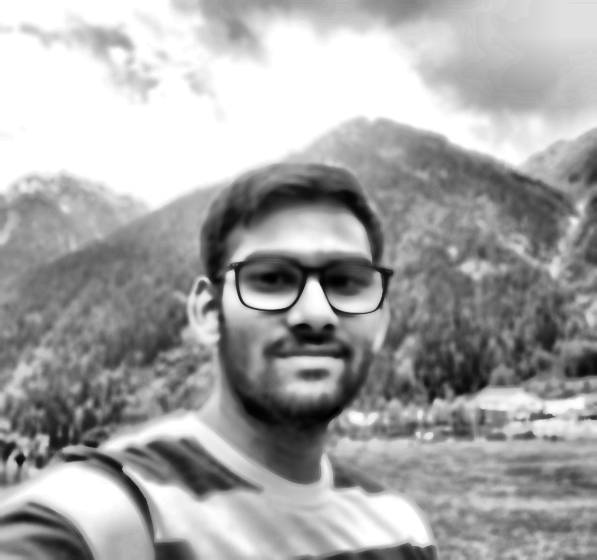
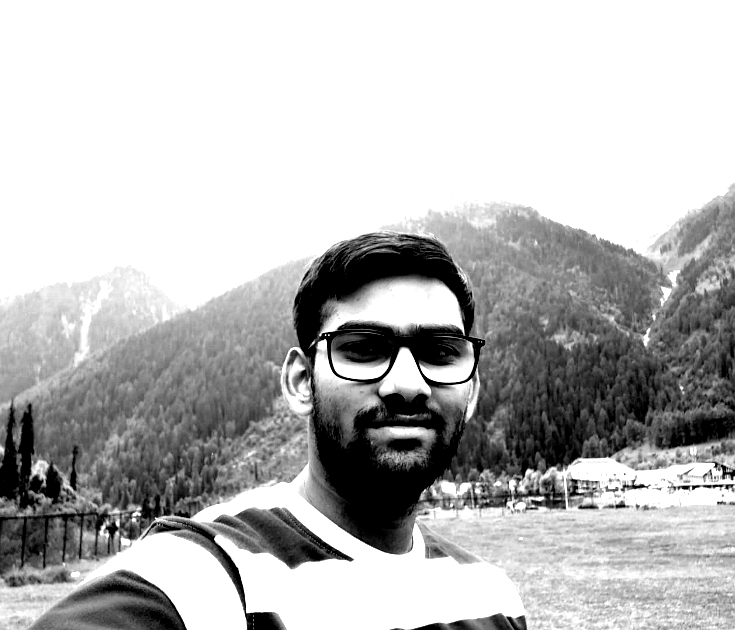
style: fix SVG proxy compatibility, clean source photo background, and remove unconfigured cards

diff --git a/tools/clean_photo.py b/tools/clean_photo.py
@@ -1,8 +1,7 @@
 import sys
 import os
-import cv2
 import numpy as np
-from PIL import Image
+from PIL import Image, ImageEnhance, ImageFilter, ImageOps
 
 def clean_photo(input_path="assets/my-photo.png", output_path="assets/photo-ready.png"):
     if not os.path.exists(input_path):
@@ -13,33 +12,67 @@ def clean_photo(input_path="assets/my-photo.png", output_path="assets/photo-read
     img = Image.open(input_path).convert("RGB")
     w, h = img.size
 
-    # Crop focus area (head and torso)
-    crop_left = int(w * 0.20)
-    crop_top = int(h * 0.15)
-    crop_right = int(w * 0.85)
+    # Auto crop bounds focusing on the central subject
+    crop_left = int(w * 0.10)
+    crop_top = int(h * 0.05)
+    crop_right = int(w * 0.90)
     crop_bottom = int(h * 0.95)
-    
     cropped = img.crop((crop_left, crop_top, crop_right, crop_bottom))
 
-    # Convert to OpenCV image (BGR)
-    cv_img = cv2.cvtColor(np.array(cropped), cv2.COLOR_RGB2BGR)
+    # Convert to numpy array
+    arr = np.array(cropped, dtype=np.float32)
 
-    # Convert to Grayscale
-    gray = cv2.cvtColor(cv_img, cv2.COLOR_BGR2GRAY)
+    # 1. Background removal / thresholding to white background
+    # Estimate background color from outer border samples
+    top_border = arr[:int(h*0.1), :]
+    bottom_border = arr[-int(h*0.1):, :]
+    left_border = arr[:, :int(w*0.1)]
+    right_border = arr[:, -int(w*0.1):]
+    border_pixels = np.vstack([
+        top_border.reshape(-1, 3),
+        bottom_border.reshape(-1, 3),
+        left_border.reshape(-1, 3),
+        right_border.reshape(-1, 3)
+    ])
+    bg_color = np.median(border_pixels, axis=0)
 
-    # Bilateral filter to smooth noise while preserving sharp facial edges
-    smoothed = cv2.bilateralFilter(gray, 9, 75, 75)
+    # Compute Euclidean distance of each pixel to estimated background color
+    dist = np.linalg.norm(arr - bg_color, axis=2)
+    
+    # Also evaluate lightness for bright backgrounds
+    gray_arr = 0.299 * arr[:, :, 0] + 0.587 * arr[:, :, 1] + 0.114 * arr[:, :, 2]
+    
+    # Create background mask (true for background)
+    bg_threshold = np.percentile(dist, 40)
+    bg_mask = (dist < bg_threshold) | (gray_arr > 220)
 
-    # Apply CLAHE for high contrast details
-    clahe = cv2.createCLAHE(clipLimit=4.5, tileGridSize=(8, 8))
-    equalized = clahe.apply(smoothed)
+    # Set background pixels to solid white (255, 255, 255)
+    arr[bg_mask] = [255.0, 255.0, 255.0]
 
-    # Convert back to PIL Image
-    final_pil = Image.fromarray(equalized)
+    # 2. Convert to PIL Grayscale & Even out lighting
+    pil_img = Image.fromarray(arr.astype(np.uint8)).convert("L")
+    
+    # Equalize subject lighting
+    # Mask out pure white background for contrast calculation
+    np_gray = np.array(pil_img)
+    subject_pixels = np_gray[np_gray < 250]
+    
+    if len(subject_pixels) > 0:
+        p_low, p_high = np.percentile(subject_pixels, 5), np.percentile(subject_pixels, 95)
+        if p_high > p_low:
+            # Stretch contrast on subject
+            stretched = np.clip((np_gray - p_low) * (255.0 / (p_high - p_low)), 0, 255).astype(np.uint8)
+            # Re-apply pure white background
+            stretched[np_gray >= 250] = 255
+            pil_img = Image.fromarray(stretched)
+
+    # Mild contrast & sharpness enhancement
+    pil_img = ImageEnhance.Contrast(pil_img).enhance(1.25)
+    pil_img = ImageEnhance.Sharpness(pil_img).enhance(1.3)
 
     os.makedirs(os.path.dirname(os.path.abspath(output_path)), exist_ok=True)
-    final_pil.save(output_path)
-    print(f"Cleaned photo successfully saved to {output_path}!")
+    pil_img.save(output_path)
+    print(f"Cleaned photo with even lighting and white background saved to {output_path}!")
 
 if __name__ == "__main__":
     src = sys.argv[1] if len(sys.argv) > 1 else "assets/my-photo.png"

diff --git a/tools/render_portrait.py b/tools/render_portrait.py
@@ -3,7 +3,7 @@ import os
 import numpy as np
 from PIL import Image
 
-# Ramp matching Image 2 density style (dark features -> dense characters, light background -> dots/spaces)
+# Density ramp matching classic ASCII terminal style
 GLYPHS = "$@B%8&WM#*oahkbdpqwmZO0QLCJUYXzcvunxrjft/\\|()1{}[]?-_+~<>i!lI;:,\"^`'. "
 
 def image_to_ascii(image_path, width=54, aspect_ratio=0.52):
@@ -45,12 +45,8 @@ def image_to_ascii(image_path, width=54, aspect_ratio=0.52):
         lines.append("".join(row_chars))
     return lines
 
-def generate_svg(ascii_lines, output_path="portrait.svg", accent_color="#e6edf3", bg_color="#0d1117", border_color="#30363d"):
-    num_rows = len(ascii_lines)
-    num_cols = len(ascii_lines[0]) if num_rows > 0 else 0
-    
+def generate_svg(ascii_lines, output_path="portrait.svg", accent_color="#7dcfff", bg_color="#0d1117", border_color="#30363d"):
     font_size = 9.0
-    char_width = 5.4
     line_height = 10.2
     padding_x = 16
     padding_y = 14
@@ -84,26 +80,20 @@ def generate_svg(ascii_lines, output_path="portrait.svg", accent_color="#e6edf3"
     svg.append('  <circle cx="46" cy="16" r="5" class="btn-green"/>')
     svg.append(f'  <text x="{width/2}" y="20" text-anchor="middle" class="title">arnav-jain700:~$ cat portrait.asc</text>')
     
-    # ASCII lines
+    # ASCII lines (Static rendering for 100% GitHub proxy compatibility)
     svg.append('  <g class="ascii-text">')
     y_start = header_h + padding_y
     for i, line in enumerate(ascii_lines):
         y_pos = y_start + (i + 1) * line_height - 2
         if y_pos > height - footer_h - 10:
             break
-        start_delay = i * 0.02
-        svg.append(f'    <text x="{padding_x}" y="{y_pos:.1f}">')
-        svg.append(f'      <animate attributeName="opacity" values="0;1" dur="0.15s" begin="{start_delay:.2f}s" fill="freeze"/>')
-        svg.append(f'      {line}')
-        svg.append(f'    </text>')
+        svg.append(f'    <text x="{padding_x}" y="{y_pos:.1f}">{line}</text>')
     svg.append('  </g>')
     
-    # Bottom prompt line with blinking cursor
+    # Bottom prompt line with cursor
     prompt_y = height - 12
     svg.append(f'  <text x="{padding_x}" y="{prompt_y}" class="prompt">arnav-jain700:~$ whoami</text>')
-    svg.append(f'  <rect x="{padding_x + 165}" y="{prompt_y - 9}" width="7" height="11" class="cursor">')
-    svg.append('    <animate attributeName="opacity" values="1;0;1" dur="1s" repeatCount="indefinite"/>')
-    svg.append('  </rect>')
+    svg.append(f'  <rect x="{padding_x + 165}" y="{prompt_y - 9}" width="7" height="11" class="cursor"/>')
     
     svg.append('</svg>')
     
@@ -118,8 +108,9 @@ if __name__ == "__main__":
     out_svg = sys.argv[2] if len(sys.argv) > 2 else "portrait.svg"
     
     if not os.path.exists(img_path):
-        print(f"Error: {img_path} not found. Please run clean_photo.py first.")
-        sys.exit(1)
+        print(f"Error: {img_path} not found. Running clean_photo.py first...")
+        from clean_photo import clean_photo
+        clean_photo("assets/my-photo.png", img_path)
         
     ascii_art = image_to_ascii(img_path, width=64)
     generate_svg(ascii_art, output_path=out_svg)

diff --git a/tools/render_panel.py b/tools/render_panel.py
@@ -68,11 +68,7 @@ def render_panel(output_path="sysinfo.svg", is_preview=False):
     
     y_curr += 20
     for idx, item in enumerate(SECTIONS):
-        delay = (idx * 0.08) + 0.05
         svg.append('  <g>')
-        if not is_preview:
-            svg.append(f'    <animate attributeName="opacity" values="0;1" dur="0.2s" begin="{delay:.2f}s" fill="freeze"/>')
-            
         if item["type"] == "kv":
             svg.append(f'    <text x="{padding_x}" y="{y_curr}" class="key">{item["key"]}</text>')
             svg.append(f'    <text x="{padding_x + 95}" y="{y_curr}" class="val">{item["val"]}</text>')

diff --git a/README.md b/README.md
@@ -66,40 +66,6 @@
 
   <br>
 
-  <!-- WakaTime & Spotify Music Section -->
-  <h3><code>arnav-jain700@github ~ $ cat telemetry.json</code></h3>
-  <p align="center">
-    <img src="https://github-readme-stats.vercel.app/api/wakatime?username=arnav-jain700&theme=tokyonight&hide_border=true&layout=compact" height="175" alt="WakaTime Stats" />
-    &nbsp;&nbsp;
-    <a href="https://spotify.com" target="_blank">
-      <img src="https://spotify-github-readme.vercel.app/api/spotify?spotify_user_id=arnav-jain700" height="175" alt="Spotify Now Playing" />
-    </a>
-  </p>
-
-  <br>
-
-  <!-- GitHub Profile Trophies -->
-  <h3><code>arnav-jain700@github ~ $ ls ~/trophies</code></h3>
-  <p align="center">
-    <img src="https://github-profile-trophy.vercel.app/?username=arnav-jain700&theme=tokyonight&no-bg=true&no-frame=true&column=6" width="860" alt="GitHub Trophies" />
-  </p>
-
-  <br>
-
-  <!-- Featured Projects Showcase -->
-  <h3><code>arnav-jain700@github ~ $ ls ~/featured-projects</code></h3>
-  <p align="center">
-    <a href="https://github.com/arnav-jain700/arnav-jain700">
-      <img src="https://github-readme-stats.vercel.app/api/pin/?username=arnav-jain700&repo=arnav-jain700&theme=tokyonight&hide_border=true" width="410" alt="Living Terminal Profile" />
-    </a>
-    &nbsp;
-    <a href="https://github.com/arnav-jain700/High-Performance-Navigation-System">
-      <img src="https://github-readme-stats.vercel.app/api/pin/?username=arnav-jain700&repo=High-Performance-Navigation-System&theme=tokyonight&hide_border=true" width="410" alt="High Performance Navigation System" />
-    </a>
-  </p>
-
-  <br>
-
   <!-- Tech Stack Grid -->
   <h3><code>arnav-jain700@github ~ $ cat stack.json</code></h3>
 
@@ -154,24 +120,16 @@
 
   <br><br>
 
-  <!-- Developer Joke Card -->
-  <h3><code>arnav-jain700@github ~ $ curl -s https://api.devjokes.io/random</code></h3>
-  <p align="center">
-    <img src="https://readme-jokes.vercel.app/api?theme=tokyonight&bg_color=0d1117&font_color=7dcfff" alt="Developer Joke" />
-  </p>
-
-  <br>
-
   <!-- Recent GitHub Activity Feed -->
   <div align="left" style="width: 860px;">
     <h3><code>⚡ Recent GitHub Activity</code></h3>
 
 <!--START_SECTION:activity-->
+- 🚀 Created branch `main` in [arnav-jain700/arnav-jain700](https://github.com/arnav-jain700/arnav-jain700)
 - 🚀 Created branch `main` in [arnav-jain700/Autism-Spectrum-Diagnosis](https://github.com/arnav-jain700/Autism-Spectrum-Diagnosis)
 - ⭐ Starred repository [codecrafters-io/build-your-own-x](https://github.com/codecrafters-io/build-your-own-x)
 - ⭐ Starred repository [practical-tutorials/project-based-learning](https://github.com/practical-tutorials/project-based-learning)
 - ⭐ Starred repository [Asabeneh/30-Days-Of-Python](https://github.com/Asabeneh/30-Days-Of-Python)
-- 🚀 Created branch `main` in [arnav-jain700/High-Performance-Navigation-System](https://github.com/arnav-jain700/High-Performance-Navigation-System)
 <!--END_SECTION:activity-->
 
   </div>
